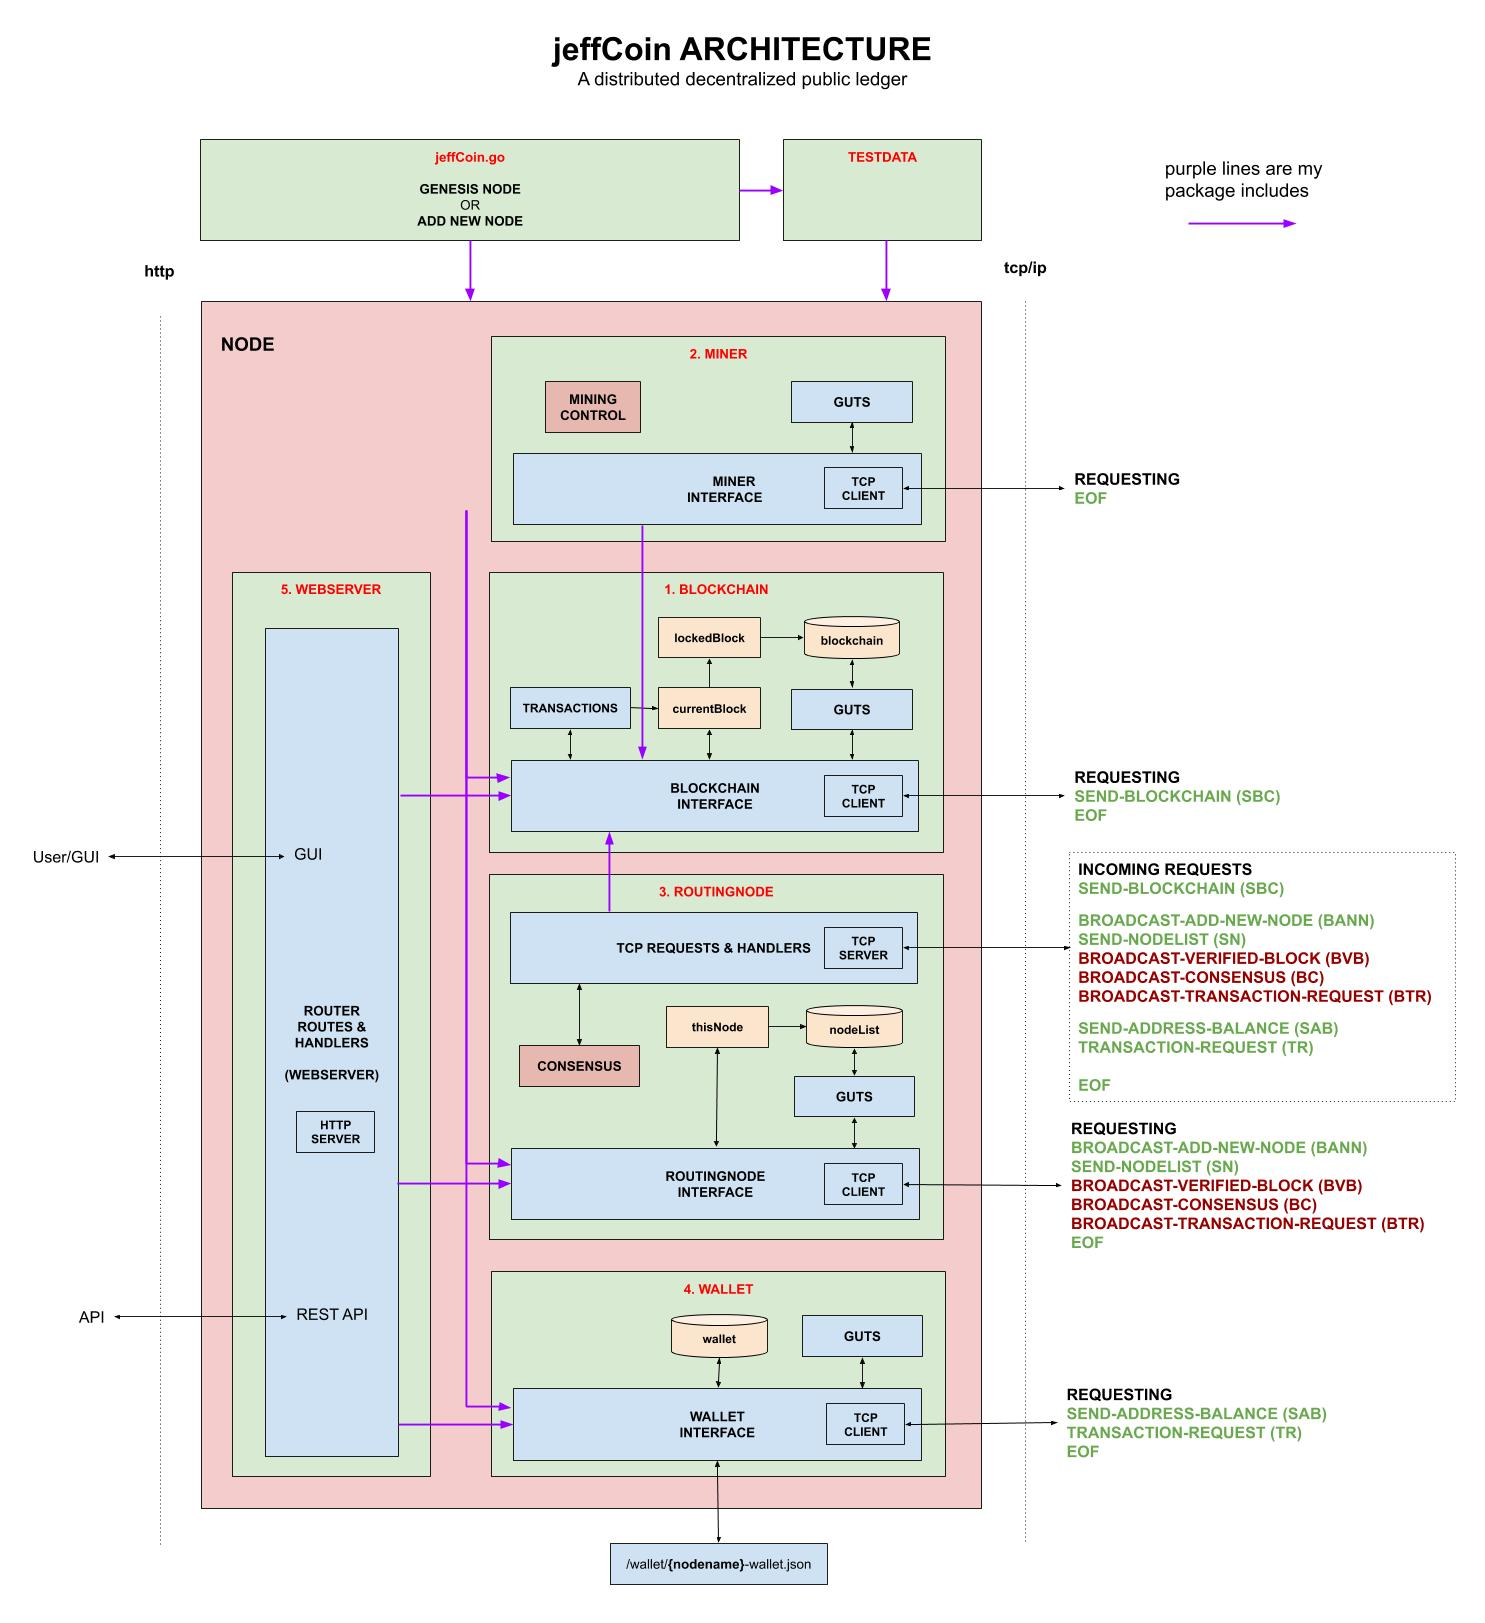
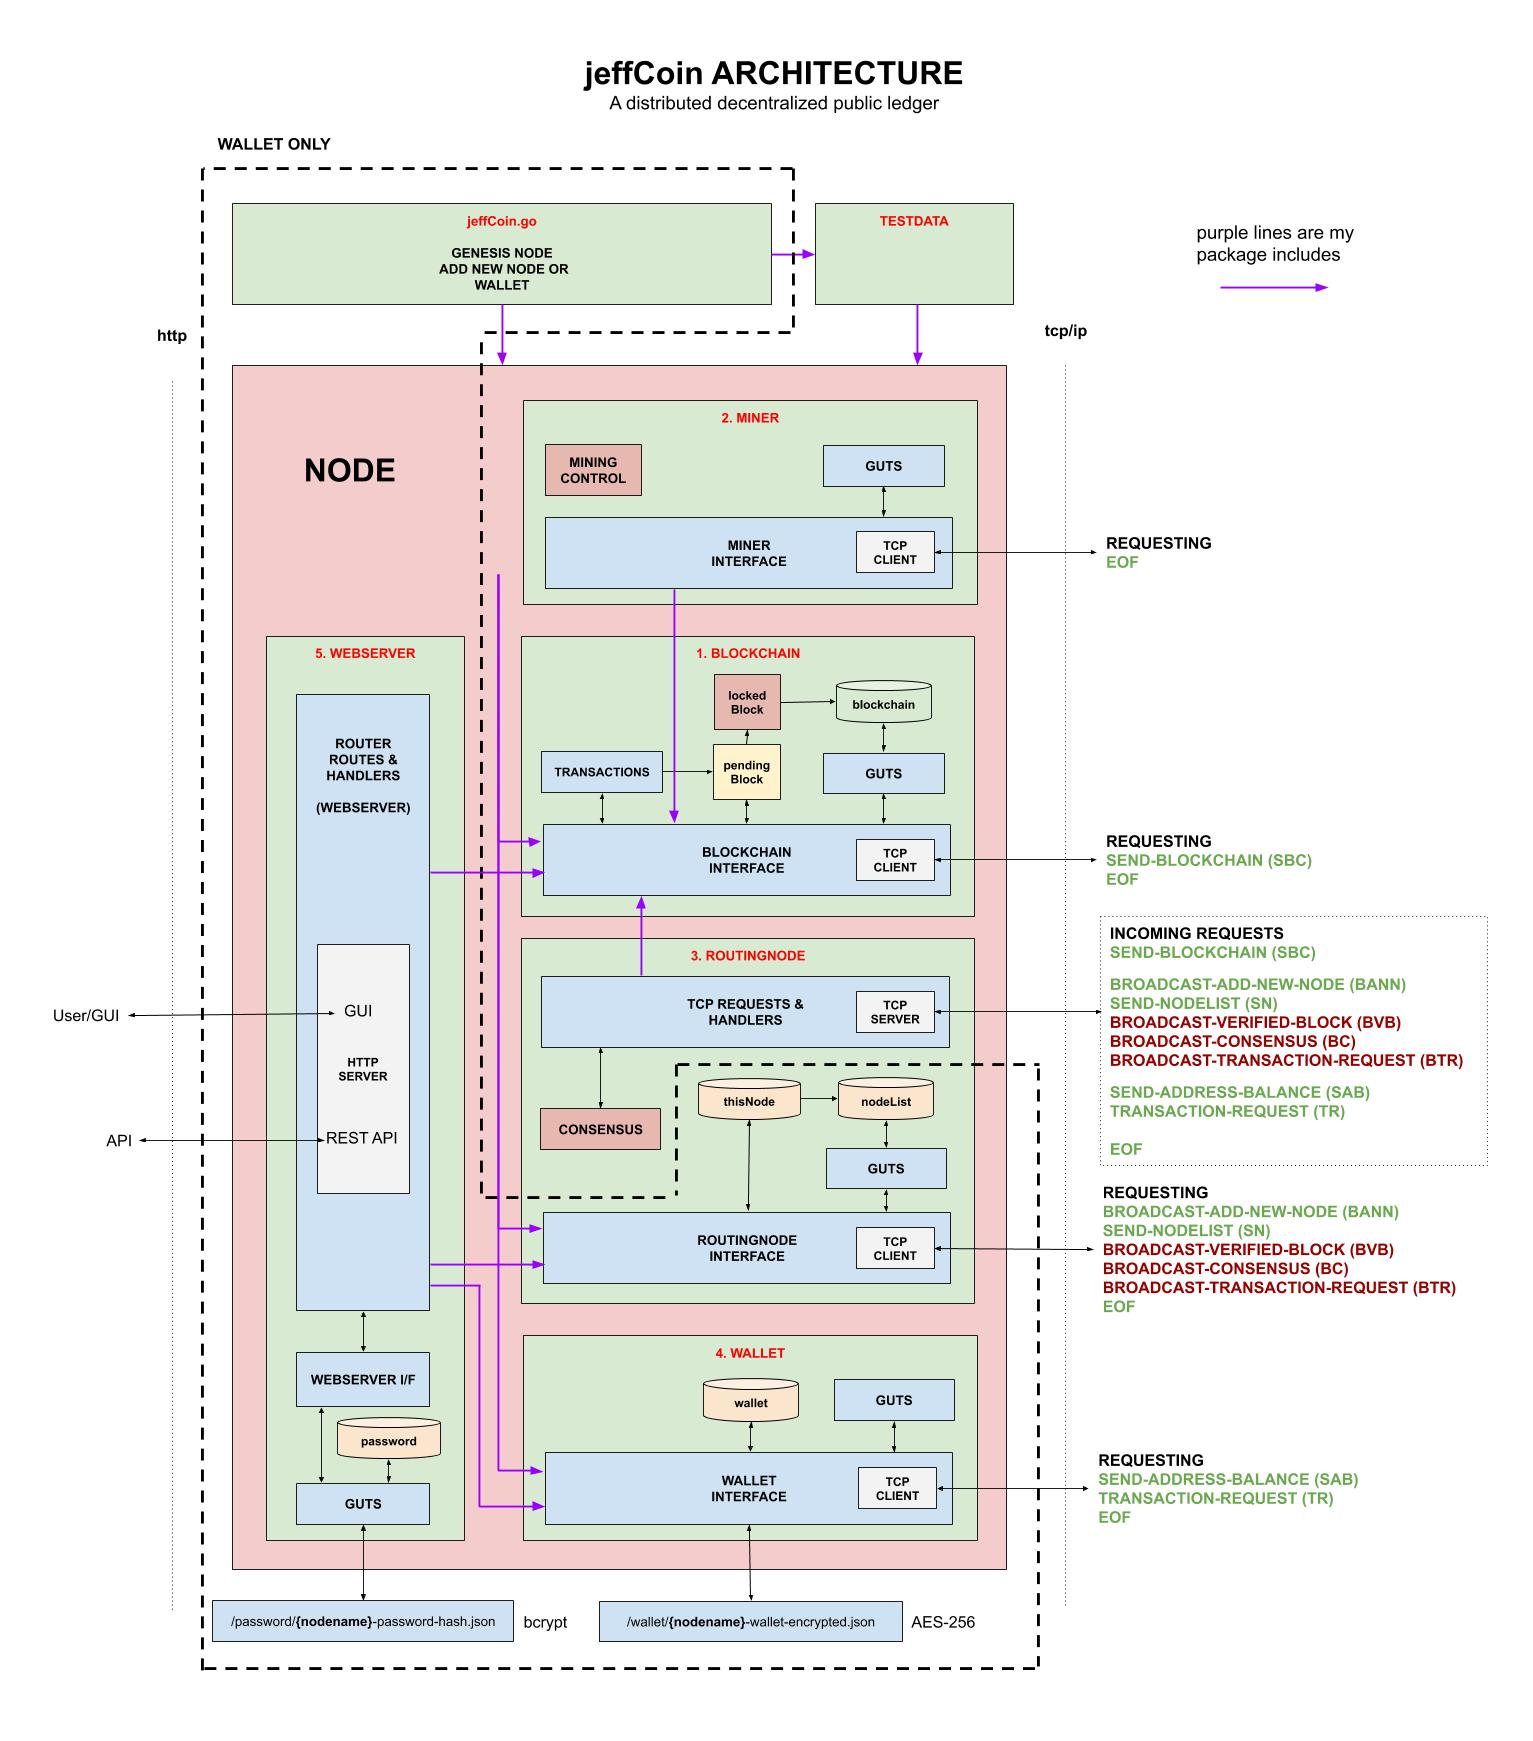
updated testing and password/wallet

diff --git a/webserver/validate.html b/webserver/validate.html
@@ -1,7 +1,7 @@
 <!DOCTYPE html>
 <html lang="en">
     <head>
-        <title> Welcome to jeffCoin ({{.NodeName}})</title>
+        <title> VALIDATE - Welcome to jeffCoin ({{.NodeName}})</title>
         <link rel="stylesheet" type="text/css" href="css/mystyles.css">
     </head>
     <body>

diff --git a/webserver/confirm.html b/webserver/confirm.html
@@ -1,7 +1,7 @@
 <!DOCTYPE html>
 <html lang="en">
     <head>
-        <title> Welcome to jeffCoin ({{.NodeName}})</title>
+        <title> CONFIRM - Welcome to jeffCoin ({{.NodeName}})</title>
         <link rel="stylesheet" type="text/css" href="css/mystyles.css">
     </head>
     <body>

diff --git a/webserver/login.html b/webserver/login.html
@@ -1,7 +1,7 @@
 <!DOCTYPE html>
 <html lang="en">
     <head>
-        <title> Welcome to jeffCoin ({{.NodeName}}) </title>
+        <title> LOGIN - Welcome to jeffCoin ({{.NodeName}}) </title>
         <link rel="stylesheet" type="text/css" href="css/mystyles.css">
     </head>
     <body>

diff --git a/webserver/logout.html b/webserver/logout.html
@@ -1,7 +1,7 @@
 <!DOCTYPE html>
 <html lang="en">
     <head>
-        <title> Welcome to jeffCoin ({{.NodeName}})</title>
+        <title> LOGOUT - Welcome to jeffCoin ({{.NodeName}})</title>
         <link rel="stylesheet" type="text/css" href="css/mystyles.css">
     </head>
     <body>

diff --git a/webserver/send.html b/webserver/send.html
@@ -1,7 +1,7 @@
 <!DOCTYPE html>
 <html lang="en">
     <head>
-        <title> Welcome to jeffCoin ({{.NodeName}})</title>
+        <title> SEND - Welcome to jeffCoin ({{.NodeName}})</title>
         <link rel="stylesheet" type="text/css" href="css/mystyles.css">
     </head>
     <body>

diff --git a/webserver/api.html b/webserver/api.html
@@ -1,7 +1,7 @@
 <!DOCTYPE html>
 <html lang="en">
     <head>
-        <title> Welcome to jeffCoin ({{.NodeName}})</title>
+        <title> API - Welcome to jeffCoin ({{.NodeName}})</title>
         <link rel="stylesheet" type="text/css" href="css/mystyles.css">
     </head>
     <body>

diff --git a/webserver/transactionrequest.html b/webserver/transactionrequest.html
@@ -1,7 +1,7 @@
 <!DOCTYPE html>
 <html lang="en">
     <head>
-        <title> Welcome to jeffCoin </title>
+        <title> TR - Welcome to jeffCoin </title>
         <link rel="stylesheet" type="text/css" href="../../css/mystyles.css">
     </head>
     <body>

diff --git a/testblockchain/data.go b/testblockchain/data.go
@@ -4,17 +4,17 @@ package testblockchain
 
 // Public Keys (address) and mock signatures
 const (
[6 lines of base64/hex data omitted]
 	MockCoinVaultPubKey  = "CoinVaultsPubKeyCoinVaultsPubKeyCoinVaultsPubKeyCoinVaultsPubKeyCoinVaultsPubKeyCoinVaultsPubKeyCoinVaultsPubKeyCoinVaultsPubKeyCoinVaultsPubKey"
 	MockJillPubKey       = "JillsPubKeyJillsPubKeyJillsPubKeyJillsPubKeyJillsPubKeyJillsPubKeyJillsPubKeyJillsPubKeyJillsPubKeyJillsPubKeyJillsPubKeyJillsPubKeyJillsPubKey"
[12 lines of base64/hex data omitted]
 )
 
 // TRANSACTION REQUEST MESSAGES SIGNED

diff --git a/jeffCoin.go b/jeffCoin.go
@@ -160,10 +160,10 @@ func init() {
 	nodeIPPtr = flag.String("nodeip", "127.0.0.1", "Node IP")
 	// NODE NAME
 	nodeNamePtr = flag.String("nodename", "Jeff", "Node Name")
-	// YOUR NODE TCP PORT
-	nodeTCPPortPtr = flag.String("nodetcpport", "3001", "Node TCP Port")
 	// PASSWORD
 	nodePasswordPtr = flag.String("nodepassword", "yourpassword", "Set/Reset your Password")
+	// YOUR NODE TCP PORT
+	nodeTCPPortPtr = flag.String("nodetcpport", "3001", "Node TCP Port")
 	// TEST FLAG
 	testblockchainPtr = flag.Bool("testblockchain", false, "Loads the blockchain with test data")
 	// VERSION FLAG
@@ -212,41 +212,32 @@ func main() {
 			PublicKeyHex    string `json:"publicKeyHex"`
 			JeffCoinAddress string `json:"jeffCoinAddress"`
 		}
-
 		var walletStruct erasewalletStruct
-
 		// READ WALLET STRUCT TO JSON FILE
-		filename := "wallet/" + *nodeNamePtr + "-wallet.json"
+		filename := "wallet/" + *nodeNamePtr + "-wallet-encrypted.json"
 		filedata, _ := ioutil.ReadFile(filename)
 		_ = json.Unmarshal([]byte(filedata), &walletStruct)
 		s := "Read wallet from " + filename
 		log.Info("WALLET:      GUTS            " + s)
-
 		js, _ := json.MarshalIndent(walletStruct, "", "    ")
 		log.Info("\n\n" + string(js) + "\n\n")
-
 		// ENCRYPT privateKeyHex using key
 		keyText := "myverystrongpasswordo32bitlength"
 		keyByte := []byte(keyText)
 		additionalData := "Jeff's additional data for authorization"
-
 		privateKeyHexEncrypted := wallet.EncryptAES(keyByte, walletStruct.PrivateKeyHex, additionalData)
 		publicKeyHex := walletStruct.PublicKeyHex
 		jeffCoinAddressHex := walletStruct.JeffCoinAddress
-
 		// ENCRYPTED STRUCT FOR FILE
 		walletStructEncrypted := erasewalletStruct{privateKeyHexEncrypted, publicKeyHex, jeffCoinAddressHex}
-
 		js, _ = json.MarshalIndent(walletStructEncrypted, "", "    ")
 		log.Info("\n\n" + string(js) + "\n\n")
-
 		// WRITE WALLET STRUCT TO JSON FILE
 		filedata, _ = json.MarshalIndent(walletStructEncrypted, "", " ")
 		filename = "wallet/" + *nodeNamePtr + "-wallet.json"
 		_ = ioutil.WriteFile(filename, filedata, 0644)
 		s = "Wrote wallet to " + filename
 		log.Info("WALLET:      GUTS            " + s)
-
 		os.Exit(0)
 	}
 	// ERASE -------------------------------------
@@ -280,8 +271,8 @@ func main() {
 		wallet.GenesisWallet(*nodeNamePtr, *nodePasswordPtr)
 	}
 
-	// DESTROY PASSWORD PTR
-	*nodePasswordPtr = &s
+	// ERASE PASSWORD
+	*nodePasswordPtr = "erase"
 
 	// START WEBSERVER (HTTP SERVER)
 	s := "START WEBSERVER (HTTP SERVER)"

diff --git a/blockchain/blockchain-interface.go b/blockchain/blockchain-interface.go
@@ -313,18 +313,18 @@ func ProcessTxRequestMessage(txRequestMessageSigned string) string {
 	s = "Received transaction message from/to: (-loglevel trace to display)"
 	log.Trace("\n\nFROM: " + trms.TxRequestMessage.SourceAddress + "\nTO: " + fmt.Sprint(trms.TxRequestMessage.Destinations) + "\n\n")
 
-	// CREATE SIG BASED ON PRIVATE KEY - USED TO CREATE TEST-DATA
-	//gotWallet := wallet.GetWallet()
-	//sourceAddress := gotWallet.JeffCoinAddress
+	/* // CREATE SIG BASED ON PRIVATE KEY - USED TO CREATE TEST-DATA
+	gotWallet := wallet.GetWallet()
+	sourceAddress := gotWallet.JeffCoinAddress
 	// GET ENCODED KEYS FROM wallet
-	//privateKeyHex := gotWallet.PrivateKeyHex
+	privateKeyHex := gotWallet.PrivateKeyHex
 	// Make a long string - Remove /n and whitespace
-	//txRequestMessageStruct := trms.TxRequestMessage
-	//txRequestMessage, _ := json.Marshal(txRequestMessageStruct)
-	//signature := wallet.CreateSignature(privateKeyHex, string(txRequestMessage))
-	//fmt.Printf("\n\n%v\n\n", sourceAddress)
-	//fmt.Printf("\n\n%v\n\n", signature)
-	//time.Sleep(100000 * time.Second)
+	txRequestMessageStruct := trms.TxRequestMessage
+	txRequestMessage, _ := json.Marshal(txRequestMessageStruct)
+	signature := wallet.CreateSignature(privateKeyHex, string(txRequestMessage))
+	fmt.Printf("\n\n%v\n\n", sourceAddress)
+	fmt.Printf("\n\n%v\n\n", signature)
+	time.Sleep(100000 * time.Second) */
 
 	// PROCESS
 	status := trms.processTxRequestMessage()

diff --git a/webserver/guts.go b/webserver/guts.go
@@ -75,7 +75,10 @@ func readPasswordFile(nodeName string, passwordString string) passwordStruct {
 	// CHECK HASH
 	status := checkPasswordHash(passwordString, password.PasswordHash)
 	if !status {
-		s = "Your password " + passwordString + " did not pass check hash in filename" + filename
+		s = "Your password did not pass check hash in filename" + filename
+		log.Fatal("WEBSERVER:   GUTS            " + s)
+	} else {
+		s = "Your password passed check hash in filename" + filename
 		log.Info("WEBSERVER:   GUTS            " + s)
 	}
 

diff --git a/README.md b/README.md
@@ -272,22 +272,22 @@ the Network to validate the transactions and reach consensus.
   Is this Node on GCE
 * `-genesis`
   Create your first Node
-* `-nodehttpport` _string_
-  Node Web Port (default "2001")
-* `-nodeip` string
-  Node IP (default "127.0.0.1")
 * `-loglevel` _string_
   LogLevel (info, debug or trace) (default "info")
 * `-networkip` _string_
   Network IP (default "127.0.0.1")
 * `-networktcpport` _string_
   Network TCP Port (default "3000")
+* `-nodehttpport` _string_
+  Node Web Port (default "2001")
+* `-nodeip` string
+  Node IP (default "127.0.0.1")
 * `-nodename` _string_
   Node Name (default "Jeff")
-* `-nodetcpport` _string_
-  Node TCP Port (default "3001")
 * `-nodepassword` _string_
   Set/Reset your Password
+* `-nodetcpport` _string_
+  Node TCP Port (default "3001")
 * `-testblockchain`
   Loads the blockchain with test data (SEE BELOW)  
 * `-v`
